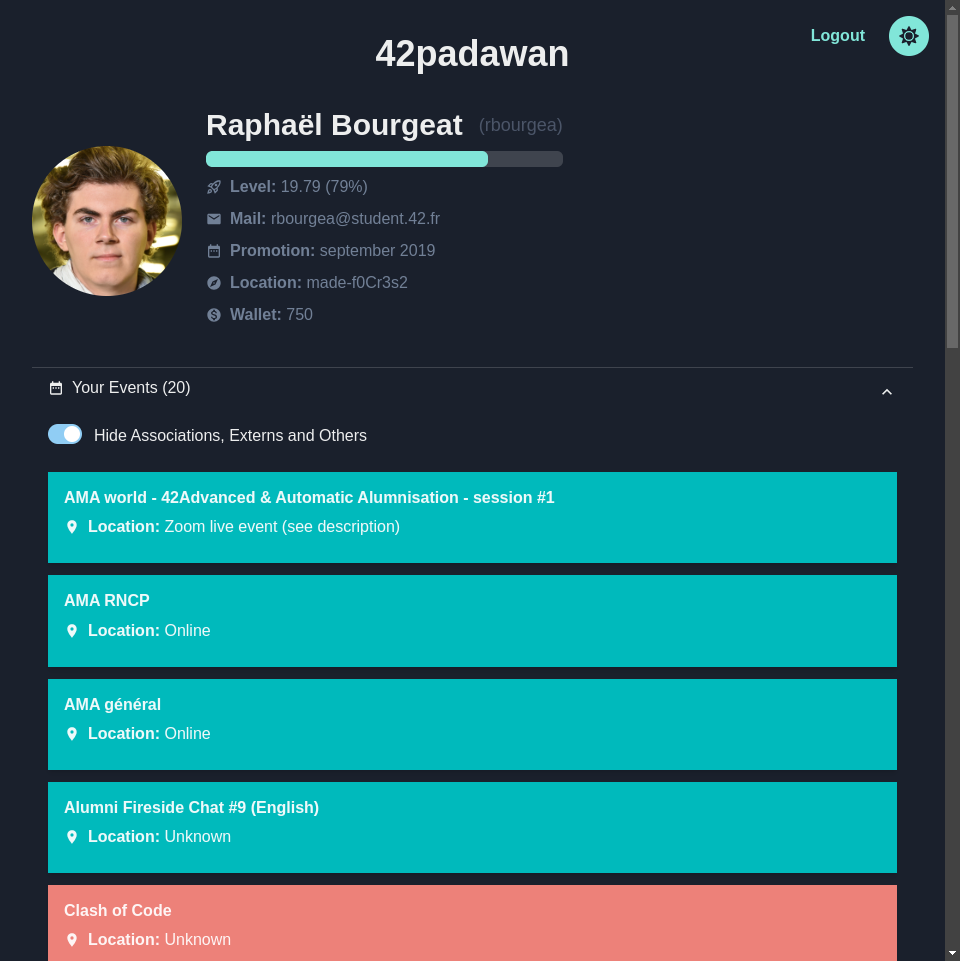
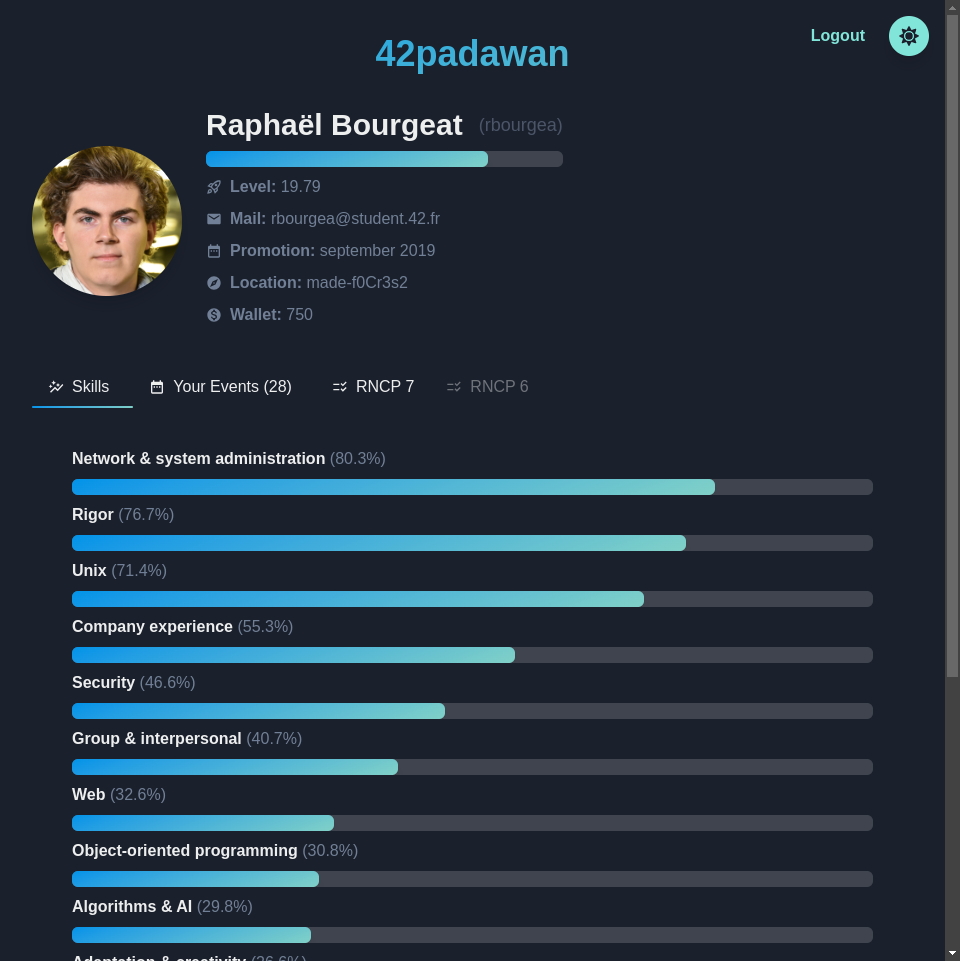
add skills tab

diff --git a/frontend/app/src/Home.jsx b/frontend/app/src/Home.jsx
@@ -16,17 +16,20 @@ import {
   Icon,
   List,
   ListItem,
-  Accordion,
-  AccordionItem,
-  AccordionButton,
-  AccordionIcon,
-  AccordionPanel,
+  TabList,
+  Tabs,
+  Tab,
+  TabPanels,
+  TabPanel,
+  TabIndicator,
   Switch,
   FormLabel,
   Link,
   IconButton,
   useColorMode,
-  Grid
+  Grid,
+  SimpleGrid,
+  Progress
 } from '@chakra-ui/react';
 import { 
   MdEmail,
@@ -35,11 +38,11 @@ import {
   MdDateRange,
   MdExplore,
   MdChecklistRtl,
-  MdArrowForward,
   MdClear,
-  MdCheck
+  MdCheck,
+  MdAutoGraph
 } from 'react-icons/md';
-import { FaMoon, FaSun } from 'react-icons/fa';
+import { FaMoon, FaSun, FaExternalLinkAlt } from 'react-icons/fa';
 
 import ProgressBar from './components/ProgressBar';
 import ProjectsCheck from './components/ProjectsCheck';
@@ -237,23 +240,23 @@ const Home = () => {
   const eventBackgroundColor = (kind) => {
     switch (kind) {
       case 'meet_up':
-        return '#00babc';
+        return 'linear-gradient(160deg, #00babc 0%, #80D0C7 100%)';
       case 'event':
-        return '#00babc';
+        return 'linear-gradient(160deg, #00babc 0%, #80D0C7 100%)';
       case 'conference':
-        return '#00babc';
+        return 'linear-gradient(160deg, #00babc 0%, #80D0C7 100%)';
       case 'pedago':
-        return '#ED8179';
+        return 'linear-gradient(160deg, #ED8179 0%, #80D0C7 100%)';
       case 'workshop':
-        return '#39D88F';
+        return 'linear-gradient(160deg, #39D88F 0%, #80D0C7 100%)';
       case 'hackathon':
-        return '#39D88F';
+        return 'linear-gradient(160deg, #39D88F 0%, #80D0C7 100%)';
       case 'association':
-        return '#a2b3e5';
+        return 'linear-gradient(160deg, #a2b3e5 0%, #80D0C7 100%)';
       case 'extern':
-        return '#c0c0c0';
+        return 'linear-gradient(160deg, #c0c0c0 0%, #80D0C7 100%)';
       default:
-        return '#c0c0c0';
+        return 'linear-gradient(160deg, #c0c0c0 0%, #80D0C7 100%)';
     }
   };
 
@@ -296,10 +299,11 @@ const Home = () => {
           colorScheme='teal'
           aria-label='Toggle theme'
           fontSize='20px'
+          boxShadow="lg"
           icon={colorMode === 'light' ? <FaMoon /> : <FaSun />}
         />
       </Flex>
-      <Heading textAlign="center" mb={6}>
+      <Heading textAlign="center" mb={6} bgGradient='linear-gradient(160deg, #0093E9 0%, #80D0C7 100%)' bgClip='text' >
         42padawan
       </Heading>
       <Flex direction="row" align="center" mt={8}>
@@ -308,6 +312,7 @@ const Home = () => {
           boxSize="150px"
           src={profile.image.versions.large}
           alt={profile.usual_full_name}
+          boxShadow="lg"
           mr={6}
         />
         <Box>
@@ -338,19 +343,62 @@ const Home = () => {
           </Box>
         </Box>
       </Flex>
+
       <Box mt={8}>
-        <Accordion allowMultiple>
-          <AccordionItem>
-            <AccordionButton>
-              <Box flex="1" textAlign="left">
-                <Flex align="center" mb={2}>
-                  <Icon as={MdDateRange} mr={2} />
-                  Your Events ({filteredEvents.length})
-                </Flex>
+        <Tabs variant="unstyled">
+          <TabList>
+            <Tab>
+              <Flex align="center" mr={2}>
+                <Icon as={MdAutoGraph} mr={2} />
+                Skills
+              </Flex>
+            </Tab>
+            <Tab>
+              <Flex align="center" mr={2}>
+                <Icon as={MdDateRange} mr={2} />
+                Your Events ({filteredEvents.length})
+              </Flex>
+            </Tab>
+            <Tab>
+              <Flex align="center">
+                <Icon as={MdChecklistRtl} mr={2} />
+                RNCP 7
+              </Flex>
+            </Tab>
+            <Tab isDisabled>
+              <Flex align="center">
+                <Icon as={MdChecklistRtl} mr={2} />
+                RNCP 6
+              </Flex>
+            </Tab>
+          </TabList>
+          <TabIndicator mt='-1.5px' height='2px' bgGradient='linear-gradient(160deg, #0093E9 0%, #80D0C7 100%)' borderRadius="md" />
+
+          <TabPanels>
+            <TabPanel>
+              <Box p={5}>
+                <SimpleGrid>
+                  {profile.cursus_users[profile.cursus_users.length - 1].skills.map(skill => (
+                    <Box key={skill.id} p={1}>
+                      <Text mb={2}><strong>{skill.name}</strong> <Text as="span" color="gray.500">({((skill.level / 20) * 100).toFixed(1)}%)</Text></Text>
+                      <Progress 
+                        value={(skill.level / 20) * 100}
+                        size="lg" 
+                        borderRadius="md"
+                        sx={{
+                          '& > div': {
+                            bgGradient: 'linear-gradient(160deg, #0093E9 0%, #80D0C7 100%)',
+                            boxShadow: 'lg',
+                          }
+                        }}
+                      />
+                    </Box>
+                  ))}
+                </SimpleGrid>
               </Box>
-              <AccordionIcon />
-            </AccordionButton>
-            <AccordionPanel pb={4}>
+            </TabPanel>
+
+            <TabPanel>
               <Flex>
                 <Switch
                   id="hide-events"
@@ -363,101 +411,114 @@ const Home = () => {
               </Flex>
               <List spacing={3} mt={4}>
                 {filteredEvents.map((event) => (
-                  <ListItem 
+                  <ListItem
                     key={event.event_id}
                     p={4}
-                    shadow="md"
-                    backgroundColor={eventBackgroundColor(event.event.kind)}
+                    shadow="lg"
+                    borderRadius="md"
+                    bgGradient={eventBackgroundColor(event.event.kind)}
                   >
                     <Link href={`https://profile.intra.42.fr/events/${event.event.id}`} isExternal>
                       <Heading size="sm" mb={2}>{event.event.name}</Heading>
                     </Link>
                     <Flex align="center" mb={2}>
                       <Icon as={MdLocationOn} mr={2} />
-                      <Text fontSize="md"><strong>Location:</strong> {event.event.location ? event.event.location : "Unknown"}</Text>
+                      <Text fontSize="md">
+                        <strong>Location:</strong> {event.event.location ? event.event.location : "Unknown"}
+                      </Text>
                     </Flex>
                   </ListItem>
                 ))}
               </List>
-            </AccordionPanel>
-          </AccordionItem>
-          <AccordionItem>
-            <AccordionButton>
-              <Box flex="1" textAlign="left">
-                <Flex align="center">
-                  <Icon as={MdChecklistRtl} mr={2} />
-                  RNCP 7
-                </Flex>
-              </Box>
-              <AccordionIcon />
-            </AccordionButton>
-            <AccordionPanel pb={4}>
+            </TabPanel>
+
+            <TabPanel>
               <List spacing={2}>
-                <Link color='blue.400' fontWeight="bold" href='https://meta.intra.42.fr/articles/rncp-7-certificate'>
-                  <Flex align="center">
-                    Official Page Here
-                    <Icon as={MdArrowForward} ml={2} />
+                  <Flex align="center" color="blue.400" fontWeight="bold">
+                    <Link href="https://meta.intra.42.fr/articles/rncp-7-certificate">
+                      Official Page Here
+                    </Link>
+                    <Icon as={FaExternalLinkAlt} ml={2} />
                   </Flex>
-                </Link>
-                <Link color='pink.400' fontWeight="bold" href='https://meta.intra.42.fr/articles/graduation-jury'>
-                  <Flex align="center">
-                    Next Jury Here
-                    <Icon as={MdArrowForward} ml={2} />
+                  <Flex align="center" color="pink.400" fontWeight="bold">
+                    <Link href="https://meta.intra.42.fr/articles/graduation-jury">
+                      Next Jury Here
+                    </Link>
+                    <Icon as={FaExternalLinkAlt} ml={2} />
                   </Flex>
-                </Link>
                 <Text>Pour les 2 options, il vous faut :</Text>
                 <Grid pl={4}>
-                  <Flex align="center" color={profile.projects_users.find(p => p.project.slug === "ft_transcendence").status == "finished" ? "green.400" : "gray.500" } mb={2}>
-                    <Icon as={profile.projects_users.find(p => p.project.slug === "ft_transcendence")?.status == "finished" ? MdCheck : MdClear } mr={2} />
+                  <Flex
+                    align="center"
+                    color={profile.projects_users.find(p => p.project.slug === "ft_transcendence").status == "finished" ? "green.400" : "gray.500"}
+                    mb={2}
+                  >
+                    <Icon as={profile.projects_users.find(p => p.project.slug === "ft_transcendence")?.status == "finished" ? MdCheck : MdClear} mr={2} />
                     <Text>Completer le <strong>tronc commun</strong>.</Text>
                   </Flex>
                   <Flex align="center" mb={2}>
                     <Text>Avoir validé <strong>deux projets de groupe après le tronc commun.</strong></Text>
                   </Flex>
-                  <Flex align="center" color={profile.cursus_users[profile.cursus_users.length - 1].level > 21 ? "green.400" : "gray.500" } mb={2}>
-                    <Icon as={profile.cursus_users[profile.cursus_users.length - 1].level > 21 ? MdCheck : MdClear } mr={2} />
+                  <Flex
+                    align="center"
+                    color={profile.cursus_users[profile.cursus_users.length - 1].level > 21 ? "green.400" : "gray.500"}
+                    mb={2}
+                  >
+                    <Icon as={profile.cursus_users[profile.cursus_users.length - 1].level > 21 ? MdCheck : MdClear} mr={2} />
                     <Text>Atteindre le level <strong>21</strong>. (Your Level: {profile.cursus_users[profile.cursus_users.length - 1].level})</Text>
                   </Flex>
-                  <Flex align="center" color={filteredEvents.length > 15 ? "green.400" : "gray.500" } mb={2}>
-                    <Icon as={filteredEvents.length > 15 ? MdCheck : MdClear } mr={2} />
+                  <Flex
+                    align="center"
+                    color={filteredEvents.length > 15 ? "green.400" : "gray.500"}
+                    mb={2}
+                  >
+                    <Icon as={filteredEvents.length > 15 ? MdCheck : MdClear} mr={2} />
                     <Text>Avoir participé à au moins <strong>15 évènements pédagogiques</strong> depuis le début de votre cursus (hors event de type extern et association).</Text>
                   </Flex>
-                  <Flex align="center" color={numberOfInternship() > 2 ? "green.400" : "gray.500" } mb={2}>
-                  <Icon as={numberOfInternship() > 2 ? MdCheck : MdClear } mr={2} />
+                  <Flex
+                    align="center"
+                    color={numberOfInternship() > 2 ? "green.400" : "gray.500"}
+                    mb={2}
+                  >
+                    <Icon as={numberOfInternship() > 2 ? MdCheck : MdClear} mr={2} />
                     <Text>Avoir au moins <strong>2 expériences professionnelles à temps plein</strong> dans votre cursus.</Text>
                   </Flex>
                 </Grid>
                 <Text>Valider <strong>un</strong> des projets de la catégorie <strong>""Suite""</strong> :</Text>
                 <ProjectsCheck projects_users={profile.projects_users} projects={suiteProjects} />
                 <Text><strong>Option 1:</strong> Système d'information et réseaux</Text>
-                <Text fontStyle="italic" color='gray.500' fontSize="sm">
+                <Text fontStyle="italic" color="gray.500" fontSize="sm">
                   Unix/Kernel - minimum 30000XP et minimum 2 projets.
                 </Text>
                 <ProjectsCheck projects_users={profile.projects_users} projects={option1ProjectsUnix} />
-                <Text fontStyle="italic" color='gray.500' fontSize="sm">
+                <Text fontStyle="italic" color="gray.500" fontSize="sm">
                   System administration - minimum 50000XP et 3 projets.
                 </Text>
                 <ProjectsCheck projects_users={profile.projects_users} projects={option1ProjectsSys} />
-                <Text fontStyle="italic" color='gray.500' fontSize="sm">
+                <Text fontStyle="italic" color="gray.500" fontSize="sm">
                   Security - minimum 50000XP et 3 projets.
                 </Text>
                 <ProjectsCheck projects_users={profile.projects_users} projects={option1ProjectsSec} />
                 <Text><strong>Option 2:</strong> Architecture des bases de données et data</Text>
-                <Text fontStyle="italic" color='gray.500' fontSize="sm">
+                <Text fontStyle="italic" color="gray.500" fontSize="sm">
                   Web - Database - minimum 50000XP et minimum 2 projets.
                 </Text>
                 <ProjectsCheck projects_users={profile.projects_users} projects={option2ProjectsWeb} />
-                <Text fontStyle="italic" color='gray.500' fontSize="sm">
+                <Text fontStyle="italic" color="gray.500" fontSize="sm">
                   Artificial Intelligence - minimum 70000XP et minimum 3 projets.
                 </Text>
                 <ProjectsCheck projects_users={profile.projects_users} projects={option2ProjectsAI} />
               </List>
-            </AccordionPanel>
-          </AccordionItem>
-        </Accordion>
+            </TabPanel>
+            <TabPanel>
+              {/* TODO: RNCP 6 */}
+            </TabPanel>
+          </TabPanels>
+        </Tabs>
       </Box>
+
       <Stack spacing={4} mt={4}>
-        <Button onClick={() => setIsOpen(!isOpen)} colorScheme='teal'>
+        <Button onClick={() => setIsOpen(!isOpen)} boxShadow="lg" colorScheme='teal'>
           {isOpen ? 'Hide Debug' : 'Show Debug'}
         </Button>
         <Collapse in={isOpen}>

diff --git a/frontend/app/src/components/ProgressBar.jsx b/frontend/app/src/components/ProgressBar.jsx
@@ -1,16 +1,38 @@
-import React from 'react';
+import React, { useEffect, useState } from 'react';
 import { Box, Progress, Text, Icon, Flex } from '@chakra-ui/react';
 import { MdOutlineRocketLaunch } from "react-icons/md";
 
 const ProgressBar = ({ level }) => {
   const percentage = (level % 1) * 100;
+  const [progress, setProgress] = useState(0);
+
+  useEffect(() => {
+    const timer = setTimeout(() => {
+      if (progress < percentage) {
+        setProgress(progress + 1);
+      }
+    }, 10);
+
+    return () => clearTimeout(timer);
+  }, [progress, percentage]);
 
   return (
     <Box width="100%" maxWidth="400px" mx="auto">
-      <Progress value={percentage} colorScheme="teal" size="lg" borderRadius="md" mt={2} />
+      <Progress 
+        value={progress}
+        size="lg"
+        borderRadius="md"
+        mt={2}
+        sx={{
+          '& > div': {
+            bgGradient: 'linear-gradient(160deg, #0093E9 0%, #80D0C7 100%)',
+            boxShadow: 'lg',
+          }
+        }}
+      />
       <Flex align="center" mt={2}>
         <Icon as={MdOutlineRocketLaunch} mr={2} />
-        <Text fontSize="md"><strong>Level: </strong>{level.toFixed(2)} ({percentage.toFixed(0)}%)</Text>
+        <Text fontSize="md"><strong>Level: </strong>{level.toFixed(2)}</Text>
       </Flex>
     </Box>
   );

diff --git a/README.md b/README.md
@@ -7,6 +7,8 @@ My own 42 API front build with FastAPI/Python & React/Vite/Chakra
 
 ![demo2](frontend/app/public/demo2.png)
 
+![demo3](frontend/app/public/demo3.png)
+
 ## Requirements
 
 - Install Docker
